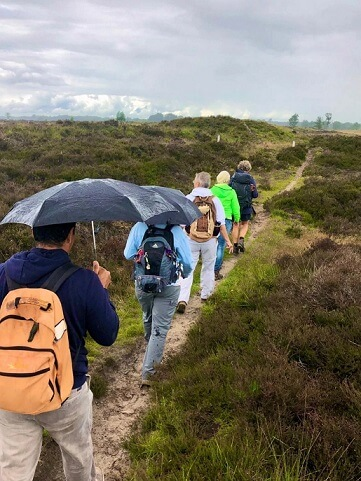
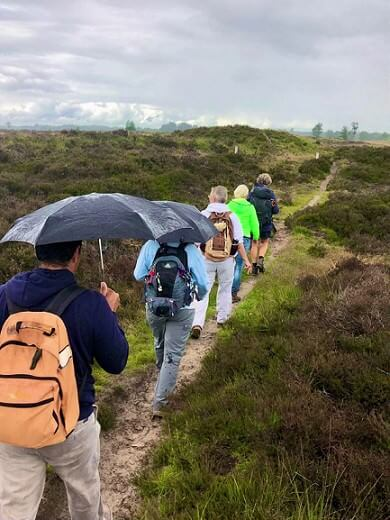
homepage mobiele versie update

diff --git a/css/style.css b/css/style.css
@@ -72,9 +72,9 @@ footer {
 }
 
 .homepage-button {
-  height: 70px;
-  width: 270px;
-  background-color: #F2811E;
+  height: 45px;
+  width: 200px;
+  background-color: rgba(242, 129, 30, 0.5);
   color: white;
   border: 1px solid #707070;
   border-radius: 10px;
@@ -96,6 +96,7 @@ footer {
 
 .review-body {
   border-top: 2px solid #F2811E;
+  padding: 10px;
 }
 
 @media screen and (max-width: 575px) {
@@ -108,8 +109,8 @@ footer {
 }
 @media screen and (min-width: 576px) {
   .homepage-image {
-    width: 472px;
-    height: 806px;
+    width: 250px;
+    height: 350px;
     border-radius: 25px;
   }
 }
@@ -123,6 +124,7 @@ body h1 {
 }
 body p {
   font-size: 17px;
+  margin-bottom: 0;
 }
 body button {
   font-size: 20px;

diff --git a/css/style.scss b/css/style.scss
@@ -13,6 +13,7 @@
 
 .review-body {
   border-top: 2px solid $orange;
+  padding: 10px;
 }
 
 @media screen and (max-width: 575px) {
@@ -26,8 +27,8 @@
 
 @media screen and (min-width: 576px) {
   .homepage-image {
-    width: 472px;
-    height: 806px;
+    width: 250px;
+    height: 350px;
     border-radius: 25px;
   }
 }
@@ -41,6 +42,7 @@ body {
   }
  p {
    font-size: 17px;
+   margin-bottom: 0;
  }
 
   button {

diff --git a/css/base/_buttons.scss b/css/base/_buttons.scss
@@ -1,7 +1,9 @@
+@import "../abstracts/variables";
+
 .homepage-button {
-  height: 70px;
-  width: 270px;
-  background-color: #F2811E;
+  height: 45px;
+  width: 200px;
+  background-color: rgba(242, 129, 30, 0.5);
   color: white;
   border: 1px solid #707070;
   border-radius: 10px;

diff --git a/template-parts/homepage-content.php b/template-parts/homepage-content.php
@@ -24,12 +24,16 @@
 <div class="container p-2 mt-md-4 p-md-0 main-container">
     <div class="row buffer-row"></div>
     <div class="row my-4 section">
-        <div class="col">
-            <div class="row text-center"><h1><b>Natuurwandelingen</b></h1></div>
-            <div class="row text-center"><h1><b>In Groningen en Drenthe</b></h1></div>
-            <div class="row p-2">
+        <div class="col-12 col-sm-6">
+            <div class="row text-center text-sm-start"><h1><b>Natuurwandelingen</b></h1></div>
+            <div class="row text-center text-sm-start"><h1><b>In Groningen en Drenthe</b></h1></div>
+            <div class="row mb-2 p-2 p-sm-0">
                 <p>
-                    Bij Op Struun met Jet ben je aan het goede adres als je een fijne dag wilt wandelen in de natuur van Groningen of Drenthe, als wilt genieten van een mooie route én van een lekkere zelfgemaakte lunch in het veld. Op Struun met Jet biedt wandeldagen aan voor verschillende doelgroepen en van verschillende afstanden. We gaan een fijne dag met elkaar op pad, starten met koffie en iets lekkers aan het begin, Op Struun met Jet verzorgt de lunch onderweg en weet de route.
+                    Bij Op Struun met Jet ben je aan het goede adres als je een fijne dag wilt wandelen in de natuur van
+                    Groningen of Drenthe, als wilt genieten van een mooie route én van een lekkere zelfgemaakte lunch in
+                    het veld. Op Struun met Jet biedt wandeldagen aan voor verschillende doelgroepen en van
+                    verschillende afstanden. We gaan een fijne dag met elkaar op pad, starten met koffie en iets lekkers
+                    aan het begin, Op Struun met Jet verzorgt de lunch onderweg en weet de route.
                 </p>
             </div>
             <div class="row">
@@ -39,99 +43,148 @@
                 <div class="col"></div>
             </div>
         </div>
-        <div class="row align-items-end justify-content-center justify-content-sm-end">
-            <div class="row text-center">
-                <img class="homepage-image float-start" src="<?php echo get_template_directory_uri(); ?>/images/logo.png" alt="logo">
+        <div class="col-8 col-sm-6 p-4 p-sm-0 align-items-end justify-content-center justify-content-sm-end">
+            <div class="row text-center justify-content-end align-items-center">
+                <img class="homepage-image float-start float-sm-end"
+                     src="<?php echo get_template_directory_uri(); ?>/images/logo.png" alt="logo">
             </div>
         </div>
     </div>
     <div class="row buffer-row"></div>
     <div class="row my-4 my-sm-0 text-center section">
-        <div class="row d-none d-sm-block align-items-end justify-content-end">
+        <div class="col-12 col-sm-6 d-none d-sm-block align-items-end justify-content-end">
             <div class="row my-4 my-sm-0 text-center">
-                <img class="homepage-image float-start" src="<?php echo get_template_directory_uri(); ?>/images/heide.jpg" alt="heide">
+                <img class="homepage-image float-start"
+                     src="<?php echo get_template_directory_uri(); ?>/images/heide.jpg" alt="heide">
             </div>
         </div>
-        <div class="col">
-            <div class="row text-center"><h1>Over Mij</h1></div>
-            <div class="row">
+        <div class="col-12 col-sm-6">
+            <div class="row text-center text-sm-end"><h1><b>Over Mij</b></h1></div>
+            <div class="row mb-3">
                 <p>
-                    Mijn naam is Henriëtte van der Noord. Mijn grootste hobby is wandelen in de natuur, het liefst op zo onverhard mogelijke paden. Daar haal ik mijn hart op, kom ik tot rust, ontspan ik en voel ik mij gelukkig. Dat gun ik anderen ook zo en daarom organiseer ik wandeldagen met kleine groepen (maximaal 8) in Groningen en Drenthe voor Op Struun met Jet, mijn wandelbedrijf.
+                    Mijn naam is Henriëtte van der Noord. Mijn grootste hobby is wandelen in de natuur, het liefst op zo
+                    onverhard mogelijke paden. Daar haal ik mijn hart op, kom ik tot rust, ontspan ik en voel ik mij
+                    gelukkig. Dat gun ik anderen ook zo en daarom organiseer ik wandeldagen met kleine groepen (maximaal
+                    8) in Groningen en Drenthe voor Op Struun met Jet, mijn wandelbedrijf.
                 </p>
             </div>
-            <div class="row text-center">
-                <div class="col-md-4">
+            <div class="row mt-2 mt-sm-0 mb-4 mb-sm-4 text-center">
+                <div class="col-7"></div>
+                <div class="col-md-5 p-0">
                     <button class="homepage-button border-0 p-1">Lees Meer</button>
                 </div>
                 <div class="col"></div>
             </div>
         </div>
     </div>
-    <div class="row buffer-row"></div>
-    <div class="row my-4 section text-center">
-        <div class="col">
-            <div class="row text-center"><h1>Aanbod</h1></div>
-            <div class="row">
+    <div class="row d-none d-sm-block my-4 section">
+        <div class="col-12 col-sm-6">
+            <div class="row text-center"><h1><b>Aanbod</b></h1></div>
+            <div class="row mb-3 p-2 p-sm-0">
                 <p>
-                    Mijn naam is Henriëtte van der Noord. Mijn grootste hobby is wandelen in de natuur, het liefst op zo onverhard mogelijke paden. Daar haal ik mijn hart op, kom ik tot rust, ontspan ik en voel ik mij gelukkig. Dat gun ik anderen ook zo en daarom organiseer ik wandeldagen met kleine groepen (maximaal 8) in Groningen en Drenthe voor Op Struun met Jet, mijn wandelbedrijf.
+                    Mijn grootste hobby is wandelen in de natuur, het liefst op zo onverhard mogelijke paden. Daar haal
+                    ik mijn hart op, kom ik tot rust, ontspan ik en voel ik mij gelukkig. Dat gun ik anderen ook zo en
+                    daarom organiseer ik wandeldagen met kleine groepen (maximaal 8) in Groningen en Drenthe voor Op
+                    Struun met Jet, mijn wandelbedrijf.
                 </p>
             </div>
-            <div class="row my-4 text-center">
+            <div class="row mt-2 mt-sm-0 mb-4 mb-sm-4">
+                <div class="col-md-4 text-center mb-4">
+                    <button class="homepage-button border-0 p-1 mb-4">Lees Meer</button>
+                </div>
+                <div class="col"></div>
+            </div>
+        </div>
+        <div class="col-12 col-sm-6 p-4 p-sm-0 align-items-end justify-content-center justify-content-sm-end">
+            <div class="row text-center justify-content-end align-items-center">
+                <img class="homepage-image float-start float-sm-end"
+                     src="<?php echo get_template_directory_uri(); ?>/images/paraplu.jpg" alt="paraplu">
+            </div>
+        </div>
+    </div>
+    <div class="row buffer-row"></div>
+    <div class="row section text-center">
+        <div class="col">
+            <div class="row text-center"><h1><b>Aanbod</b></h1></div>
+            <div class="row">
+                <p>
+                    Mijn naam is Henriëtte van der Noord. Mijn grootste hobby is wandelen in de natuur, het liefst op zo
+                    onverhard mogelijke paden. Daar haal ik mijn hart op, kom ik tot rust, ontspan ik en voel ik mij
+                    gelukkig. Dat gun ik anderen ook zo en daarom organiseer ik wandeldagen met kleine groepen (maximaal
+                    8) in Groningen en Drenthe voor Op Struun met Jet, mijn wandelbedrijf.
+                </p>
+            </div>
+            <div class="row mt-3 mt-sm-0 mb-4 mb-sm-4 text-center">
                 <div class="col-md-4">
                     <button class="homepage-button border-0 p-1">Bekijk het aanbod</button>
                 </div>
                 <div class="col"></div>
             </div>
         </div>
-        <div class="row text-center p-0 justify-content-center">
-            <img class="homepage-image float-end" src="<?php echo get_template_directory_uri(); ?>/images/bloemen.jpg" alt="bloemen">
+        <div class="row text-center px-2 justify-content-center">
+            <img class="homepage-image float-end" src="<?php echo get_template_directory_uri(); ?>/images/bloemen.jpg"
+                 alt="bloemen">
         </div>
-        <div class="row py-4">
+        <div class="row mb-2 mb-sm-0 py-3 py-sm-0">
             <div class="col-6">
-                <img class="homepage-image float-start" src="<?php echo get_template_directory_uri(); ?>/images/regen.jpg" alt="regen">
+                <img class="homepage-image float-start"
+                     src="<?php echo get_template_directory_uri(); ?>/images/regen.jpg" alt="regen">
             </div>
             <div class="col-6">
-                <img class="homepage-image float-start" src="<?php echo get_template_directory_uri(); ?>/images/paraplu.jpg" alt="paraplu">
+                <img class="homepage-image float-start"
+                     src="<?php echo get_template_directory_uri(); ?>/images/paraplu.jpg" alt="paraplu">
             </div>
         </div>
-        <div class="row mt-4 mt-sm-0">
+        <div class="row my-4 mt-sm-0">
             <div class="col-md-4 text-center mb-4">
                 <button class="homepage-button border-0 p-1 mb-4">Bekijk Meer</button>
             </div>
             <div class="col"></div>
         </div>
     </div>
-    <div class="row text-center my-4">
-        <h1>Recensies</h1>
-    </div>
-    <div class="row p-2">
-        <div class="col-md-6 p-2 text-center">
-            <h3><b>Barbara Razenberg</b></h3>
-            <p class="review-body">
-                Op Struun met Jet is als een warm bad.
-                Jet zorgt er voor dat iedereen een fijne tijd heeft door goed aan te voelen wat ieders behoeften zijn.
-                En wat is er fijner dan eens niet zelf op de route te hoeven letten maar je te laten leiden door een
-                bevlogen gids. En dan heb ik het nog niet eens gehad over de lunch. Die is fantastisch! Waarbij ook
-                rekening wordt gehouden met mensen die vegetarisch zijn...
-            </p>
+    <div class="row d-block d-sm-none my-4 section text-center">
+        <h1><b>Contact</b></h1>
+        <div class="row mb-2">
+            <div class="col"></div>
+            <div class="col-8">
+                <p>Stuur mij een bericht of boek een wandeling</p>
+            </div>
+            <div class="col"></div>
         </div>
-        <div class="col-md-6 p-2 text-center">
-            <h3><b>Marije van der Dam</b></h3>
-            <p class="review-body">
-                Als je in goed gezelschap, met een lekkere lunch onderweg een mooie route wilt lopen, ga dan op struun
-                met Jet, want daar hoef je alleen maar zelf te lopen, de rest wordt voor je geregeld.
-            </p>
-        </div>
+        <button class="homepage-button border-0 p-1 mt-2 mt-sm-0 mb-4">Neem Contact Op</button>
     </div>
-    <div class="row my-3">
-        <div class="col-lg-4"></div>
-        <div class="col-md-4 text-center mb-4">
-            <button class="homepage-button border-0 p-1 mb-4">Lees Meer Recensies</button>
-        </div>
-        <div class="col-lg-4"></div>
+</div>
+<div class="row text-center my-4">
+    <h1>Recensies</h1>
+</div>
+<div class="row mx-2 mx-sm-0 p-0">
+    <div class="col-md-6 p-2 text-center">
+        <h3><b>Barbara Razenberg</b></h3>
+        <p class="review-body">
+            Op Struun met Jet is als een warm bad.
+            Jet zorgt er voor dat iedereen een fijne tijd heeft door goed aan te voelen wat ieders behoeften zijn.
+            En wat is er fijner dan eens niet zelf op de route te hoeven letten maar je te laten leiden door een
+            bevlogen gids. En dan heb ik het nog niet eens gehad over de lunch. Die is fantastisch! Waarbij ook
+            rekening wordt gehouden met mensen die vegetarisch zijn...
+        </p>
     </div>
+    <div class="col-md-6 mb-0 p-2 text-center">
+        <h3><b>Marije van der Dam</b></h3>
+        <p class="review-body">
+            Als je in goed gezelschap, met een lekkere lunch onderweg een mooie route wilt lopen, ga dan op struun
+            met Jet, want daar hoef je alleen maar zelf te lopen, de rest wordt voor je geregeld.
+        </p>
+    </div>
+</div>
+<div class="row mt-0 mt-sm-0 mb-4 mb-sm-4">
+    <div class="col col-lg-4"></div>
+    <div class="col col-md-4 text-center mb-4">
+        <button class="homepage-button border-0 p-1 mb-4">Lees Alle Reviews</button>
+    </div>
+    <div class="col col-lg-4"></div>
+</div>
 
-    <?php get_footer(); ?>
+<?php get_footer(); ?>
 </div>
 
 
